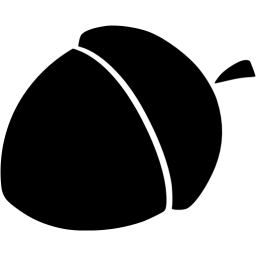
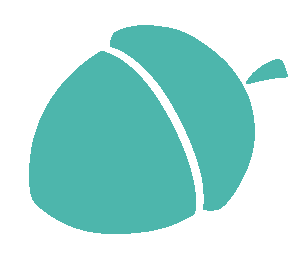
make style consistent to web app

diff --git a/scss/main.css b/scss/main.css
@@ -462,11 +462,6 @@ body {
   text-align: left;
 }
 
-.bk-image {
-  margin-top: 1em;
-  width: 100%;
-}
-
 .header {
   color: #212121;
   text-align: center;
@@ -481,14 +476,6 @@ body {
   position: absolute;
   top: 40%;
   left: 40%;
-}
-
-.article-thumbnail {
-  width: 20%;
-}
-
-.sidebar {
-  border-right: 1px solid black;
 }
 
 
@@ -575,7 +562,7 @@ img{
 
 .sidebar{
   border-right-style: solid;
-    border-right-width: 15px;
+  border-right-width: 15px;
 }
 
 #topbar{
@@ -588,11 +575,11 @@ img{
   background-color: #e64a19;
 }
 
-.titles{
+/*.titles{
   position:absolute;
   width:50%;
   vertical-align:top;
-}
+}*/
 
 .vAlign{
   vertical-align:top;
@@ -630,4 +617,58 @@ input {
   width: 70%;
   margin-left: 10px;
   margin-right: 80px;
+}
+
+.folder {
+  display: flex;
+  border: 1px solid #4db6ac;
+  border-radius: 25px;
+  width: 200px;
+  height: 35px;
+  margin-bottom: 20px;
+  justify-content: center;
+  align-items: center;
+}
+
+.acornLogo {
+  margin-top: 4px;
+  margin-left: 5px;
+  margin-right: 5px;
+  height: 20px;
+  width: auto;
+}
+
+.articleContainer {
+  display: flex;
+  flex-direction: row;
+  justify-content: flex-start;
+  align-content: flex-start; 
+}
+
+.articleBox {
+  display: flex;
+  width: 200px;
+  height: 200px;
+  flex-direction: column;
+  justify-content: flex-start;
+  border: 1px solid gray;
+  border-radius: 5px;
+  margin: 10px;
+}
+
+.articleImage {
+  width: 100%;
+  height: auto;
+}
+
+.articleTitle {
+  width: 100%;
+  height: auto;
+  margin-left: 10px;
+}
+
+.folderContainer {
+  display: flex;
+  flex-direction: row;
+  justify-content: flex-start;
 }

diff --git a/client/app/articleLibrary/fileCard/fileCardContainer.jsx b/client/app/articleLibrary/fileCard/fileCardContainer.jsx
@@ -47,23 +47,13 @@ class FileCardContainer extends React.Component {
 
   render() {
     console.log('path', this.props.path);
-
     var image = this.props.path + "/images/assetFile10.jpg";
     return (
-      <div className="row">
-      <div className='article_from_friend_card shadowDepth1' onClick={()=> { this.expand.bind(this)(this.props.path); }}>
-        <div className='friend_article_image_block'>
-          <img src={image}/>
+      <div className='articleBox' onClick={()=> { this.expand.bind(this)(this.props.path); }}>
+          <img className="articleImage" src={image}/>
+          <div className='articleTitle'>
+            <h3>{this.props.path.slice(this.findsecondslash(this.props.path)).replace('.html', '')}</h3>
         </div>
-        <div className='friend_article_image_content'>
-          <div className='friend_article_title'>
-            <h5 className = "titles">{this.props.path.slice(this.findsecondslash(this.props.path)).replace('.html', '')}</h5>
-          </div>
-          <div className='friend_article_friend_image'>
-           
-          </div>
-        </div>
-      </div>
       </div>
     );
   }

diff --git a/client/app/articleLibrary/articleLibraryPresentation.jsx b/client/app/articleLibrary/articleLibraryPresentation.jsx
@@ -10,24 +10,10 @@ var ArticleLibraryPresentation = ({filePaths}) => {
   });
 
   return (
-    <div className = "easyui-panel" style={{width: '500px', height: '600px', position: 'relative'}}>
+    <div className="articleContainer">
       {fileCards}
     </div>
   );
 };
 
 export default ArticleLibraryPresentation;
-    // <div className='article_from_friend_card shadowDepth1'>
-    //     <div className='friend_article_image_block'>
-    //       <div style={divStyle} className='friend_article_image'/>
-    //     </div>
-    //     <div className='friend_article_image_content'>
-    //       <div className='friend_article_title'>
-    //         <a href={props.url}>{props.title}</a>
-    //       </div>
-    //       <div className='friend_article_friend_image'>
-    //         <p>Recommended by {dummyphotoJordan[1]}</p>
-    //         <img src={dummyphotoJordan[0]} alt="" className="friend_article_friend_img circle responsive-img"/>
-    //       </div>
-    //     </div>
-    //   </div>

diff --git a/client/app/sidebar/folder/folderContainer.jsx b/client/app/sidebar/folder/folderContainer.jsx
@@ -1,15 +1,13 @@
 import React from 'react';
 import FolderPresentation from './folderPresentation.jsx';
 
-var FolderContainer = (props) => (
-
-  <div className="easyui-draggable" style={{width: '100px', height: '100px'}} data-options="onDrag:onDrag" onClick={() => (props.loadFolder(props.folder))}>
-    <div>
-      
+const FolderContainer = (props) => {
+  const title = props.index === 0 ? 'your saved stash' : 'with love from friends';
+  return (
+    <div className="easyui-draggable folder" data-options="onDrag:onDrag" onClick={() => (props.loadFolder(props.folder))}>
+      <h4 onDrop={function(event) { drop(event); }} onDragOver={function(event) { allowDrop(event); }} >{title}</h4>
     </div>
-    <img width="30%" src="client/assets/acorn-7-xxl.png" onDrop={function(event) { drop(event); }} onDragOver={function(event) { allowDrop(event); }}/>
-    <p width="30%">{props.folder.replace('Stash/', "")}</p> 
-  </div>
-);
+  );
+};
 
 export default FolderContainer;

diff --git a/test.html b/test.html
@@ -4,28 +4,6 @@
   <script src="node_modules/jquery/dist/jquery.js"></script>
 </head>
 <body>
-  <div>
-    <nav>
-      <div className="nav-wrapper white">
-      </div>
-    </nav>
-    <div className='buttoncontainer'>
-      <h5 className="sub-head">Get started</h5>
-      <br />
-      <div className="loginBody">
-        <div className="row center">
-          <a href='/auth/facebook' className="loginBtn loginBtn--facebook">
-            Login with Facebook
-          </a>
-        </div>
-        <div className="row center">
-          <a className="loginBtn loginBtn--twitter">
-             Login with Twitter
-          </a>
-        </div>
-      </div>
-    </div>
-  </div>
   <script>
   // This is called with the results from from FB.getLoginStatus().
   function statusChangeCallback(response) {

diff --git a/client/app/sidebar/sidebarPresentation.jsx b/client/app/sidebar/sidebarPresentation.jsx
@@ -4,12 +4,19 @@ import FolderContainer from './folder/folderContainer.jsx';
 var SidebarPresentation = (props) => {
 
   var folders = props.folders.map((folder, index) => {
-    return (<FolderContainer folder={folder} loadFolder={props.loadFolder}/>);
+    if (index < 2) {
+      return (
+        <div className="folderContainer">
+          <img className="acornLogo" src="client/assets/acorn-7-xxl.png"/>
+          <FolderContainer folder={folder} loadFolder={props.loadFolder} index={index}/>
+        </div>
+        );
+    }
   });
 
   return (
     <div className = "easyui-panel side-nav full" style={{width: '500px', height: '600px', position: 'relative'}}>
-      <h4>Your folders</h4>
+      <h4>Your collection:</h4>
       {folders}	
     </div>
   );
